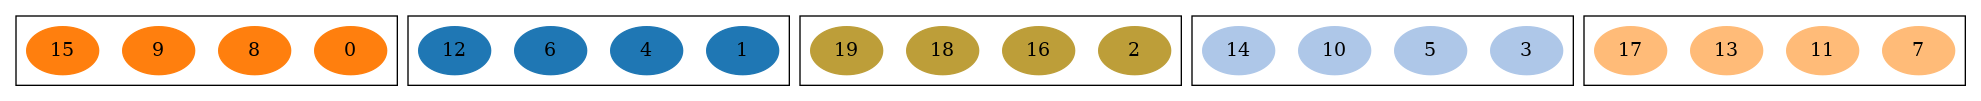
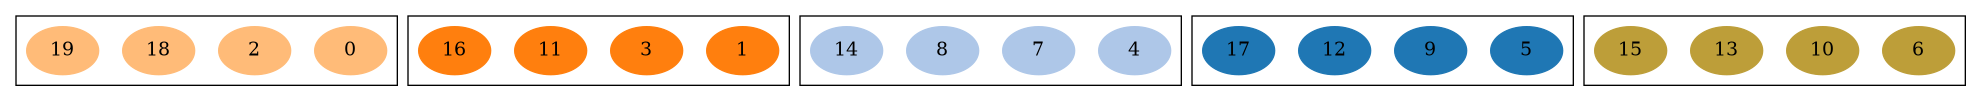
codex changes

Changed region(s): [[0.0, 0.2376, 1.0, 0.7426]]

diff --git a/src/graph.cpp b/src/graph.cpp
@@ -5,7 +5,7 @@
 #include <graphviz/gvc.h>
 #include <map>
 
-Node::Node(int id, int label): id(id), label(label), offset(-1), edgeList{}, messages{}, degree(0) {}
+Node::Node(int id, int label): id(id), label(label), offset(-1), degree(0), edgeList{}, messages{}, edgeIndex{} {}
 
 Node::~Node() {
     // Nothing to clean
@@ -17,23 +17,49 @@ void Node::addEdge(Node* destination, int edgeWeight) {
         return;
     }
 
-    auto it = find_if(edgeList.begin(), edgeList.end(),
-                [&](const pair<Node*, int>& edge) {
-                    return edge.first->id == destination->id;
-                });
-    if (it != edgeList.end()) {
-        it->second += edgeWeight;
+    auto it = edgeIndex.find(destination->id);
+    if (it != edgeIndex.end()) {
+        edgeList[it->second].second += edgeWeight;
     } else {
+        edgeIndex[destination->id] = edgeList.size();
         edgeList.emplace_back(destination, edgeWeight);
     }
     degree += edgeWeight;
 }
 
+int Node::getEdgeWeight(int destinationId) const {
+    auto it = edgeIndex.find(destinationId);
+    if (it == edgeIndex.end()) {
+        return 0;
+    }
+    return edgeList[it->second].second;
+}
+
+bool Node::removeEdge(int destinationId) {
+    auto it = edgeIndex.find(destinationId);
+    if (it == edgeIndex.end()) {
+        return false;
+    }
+
+    size_t removedIndex = it->second;
+    degree -= edgeList[removedIndex].second;
+
+    if (removedIndex != edgeList.size() - 1) {
+        edgeList[removedIndex] = edgeList.back();
+        edgeIndex[edgeList[removedIndex].first->id] = removedIndex;
+    }
+
+    edgeList.pop_back();
+    edgeIndex.erase(it);
+    return true;
+}
+
 // Constructor to initialize graph with a certain number of nodes
 Graph::Graph(int numberNodes) {
+    nodes.reserve(numberNodes);
+    id_to_index_mapping.reserve(numberNodes);
     for (int i = 0; i < numberNodes; ++i) {
         auto node = make_unique<Node>(i, i);
-        Node* nodePtr = node.get();
         nodes.push_back(move(node));
         id_to_index_mapping.emplace(i, i);
     }
@@ -59,10 +85,14 @@ Graph& Graph::operator=(Graph&& other) noexcept {
 
 // Copy Constructor
 Graph::Graph(const Graph& other) {
+    nodes.reserve(other.nodes.size());
+    id_to_index_mapping.reserve(other.id_to_index_mapping.size());
+
     // Deep copy each node
     for (const auto& node : other.nodes) {
         auto newNode = make_unique<Node>(node->id, node->label);
         newNode->offset = node->offset;
+        newNode->degree = node->degree;
         newNode->messages = node->messages;
         nodes.push_back(move(newNode));
     }
@@ -78,6 +108,7 @@ Graph::Graph(const Graph& other) {
             Node* newSrcNode = getNode(srcId);
             Node* newDestNode = getNode(destId);
             if (newSrcNode && newDestNode) {
+                newSrcNode->edgeIndex[destId] = newSrcNode->edgeList.size();
                 newSrcNode->edgeList.emplace_back(newDestNode, edgeWeight);
             }
         }
@@ -90,11 +121,14 @@ Graph& Graph::operator=(const Graph& other) {
         // Clear existing nodes and mapping
         nodes.clear();
         id_to_index_mapping.clear();
+        nodes.reserve(other.nodes.size());
+        id_to_index_mapping.reserve(other.id_to_index_mapping.size());
 
         // Deep copy each node
         for (const auto& node : other.nodes) {
             auto newNode = make_unique<Node>(node->id, node->label);
             newNode->offset = node->offset;
+            newNode->degree = node->degree;
             newNode->messages = node->messages;
             nodes.push_back(move(newNode));
         }
@@ -110,6 +144,7 @@ Graph& Graph::operator=(const Graph& other) {
                 Node* newSrcNode = getNode(srcId);
                 Node* newDestNode = getNode(destId);
                 if (newSrcNode && newDestNode) {
+                    newSrcNode->edgeIndex[destId] = newSrcNode->edgeList.size();
                     newSrcNode->edgeList.emplace_back(newDestNode, edgeWeight);
                 }
             }
@@ -161,7 +196,7 @@ void Graph::draw(const string &filepath) {
             Agnode_t *agnode_dest = agnode_map[dest];
             Agedge_t *ag_edge = agedge(g, agnode_src, agnode_dest, NULL, 1);
 
-            string edge_color = getEdgeColor(node->label, nodes[dest]->label);
+            string edge_color = getEdgeColor(node->label, edge.first->label);
 
             // Set edge color
             agsafeset(ag_edge, const_cast<char*>("color"), const_cast<char*>(edge_color.c_str()), const_cast<char*>(""));
@@ -237,32 +272,17 @@ void Graph::addUndirectedEdge(Node* srcNode, Node* destNode, int edgeWeight) {
 void Graph::addUndirectedEdge(int srcNodeId, int destNodeId, int edgeWeight) {
     Node* srcNode = getNode(srcNodeId);
     Node* destNode = getNode(destNodeId);
-    addUndirectedEdge(srcNode, destNode);
+    addUndirectedEdge(srcNode, destNode, edgeWeight);
 }
 
 int Graph::getEdgeWeight(int srcNodeId, int destNodeId) {
     Node* src = getNode(srcNodeId);
-    auto it = find_if(src->edgeList.begin(), src->edgeList.end(),
-                [&](const pair<Node*, int>& edge) {
-                    return edge.first->id == destNodeId;
-                });
-    if (it == src->edgeList.end()) {
-        return 0;
-    }
-    return it->second;
+    return src->getEdgeWeight(destNodeId);
 }
 
 void Graph::removeEdge(int srcNodeId, int destNodeId) {
     Node* src = getNode(srcNodeId);
-    auto it = find_if(src->edgeList.begin(), src->edgeList.end(),
-                [&](const pair<Node*, int>& edge) {
-                    return edge.first->id == destNodeId;
-                });
-
-    if (it != src->edgeList.end()) {
-        src->degree -= it->second;
-        src->edgeList.erase(it);
-    }
+    src->removeEdge(destNodeId);
 }
 
 void Graph::removeUndirectedEdge(int srcNodeId, int destNodeId) {
@@ -276,7 +296,6 @@ void Graph::removeUndirectedEdge(int srcNodeId, int destNodeId) {
 void Graph::addNode(int nodeId, int nodeLabel) {
     // Create node and push it to the node queue
     auto node = make_unique<Node>(nodeId, nodeLabel);
-    Node* nodePtr = node.get();
     nodes.push_back(move(node));
 
     // Update mappings

diff --git a/src/graph.h b/src/graph.h
@@ -19,13 +19,15 @@ class Node {
         int label;
         int offset;
         int degree;
-        // TODO: need to store only address, all edge info will be stored in a very long list
         vector<pair<Node*, int>> edgeList; // {dest_address, weight}
         unordered_map<int, vector<double>> messages;
+        unordered_map<int, size_t> edgeIndex;
 
         Node(int id, int label = -1);
         ~Node();
         void addEdge(Node* destination, int edgeWeight = 1);
+        int getEdgeWeight(int destinationId) const;
+        bool removeEdge(int destinationId);
 };
 
 class Graph {
